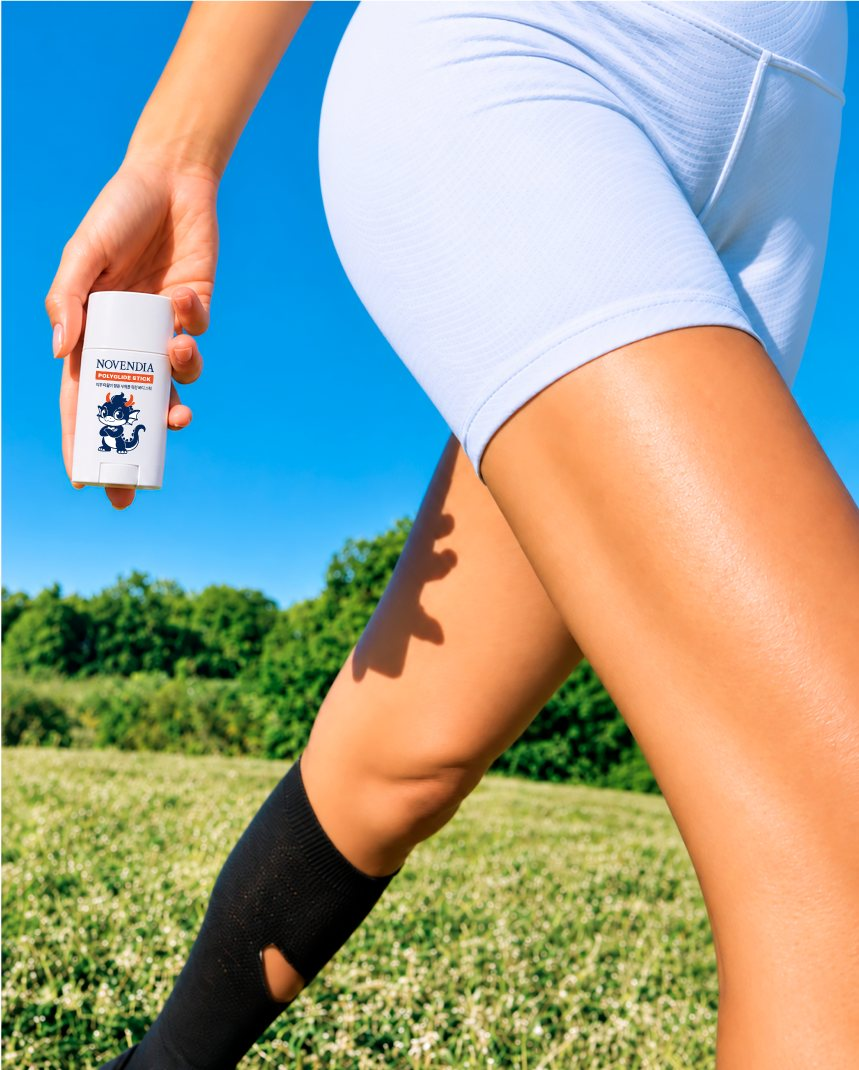
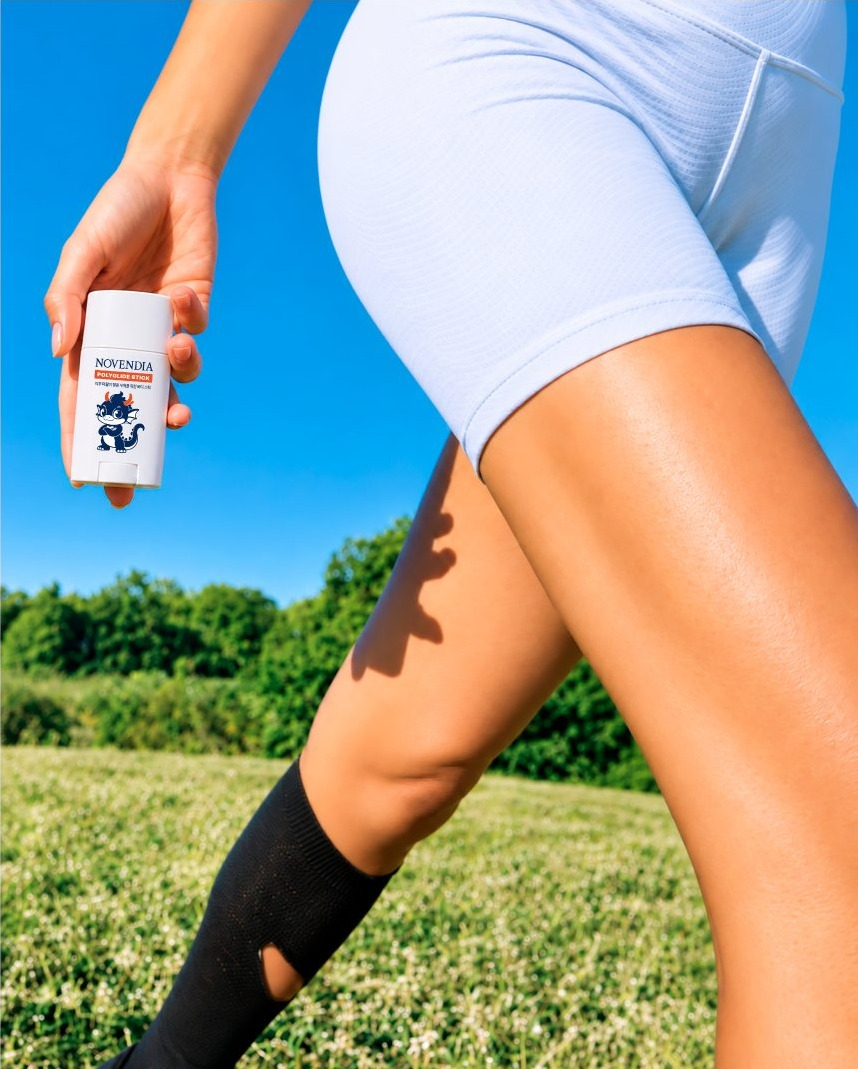
사진 가장자리 흰 선·여백 제거 (어두운 배경에서 드러나던 부분)
Claude-Session: https://claude.ai/code/session_01Mrz4E2EDZAJrEb4e2LYKMF

diff --git a/brand.html b/brand.html
@@ -211,7 +211,7 @@ main img:not([src*="logo"]){filter:saturate(.72) brightness(.96)}
 <h2 id="mumu-title" style="font-size:clamp(30px,3.4vw,46px);line-height:1.3;font-weight:700">푸른 해룡의 수호에서<br>시작된 피부 보호막</h2>
 <p style="font-size:18px;line-height:1.85;color:rgba(238,233,223,.78)">신라 문무왕은 죽어서 동해의 용이 되어 나라를 지키겠다고 했습니다. 그 해룡 설화에서 태어난 남색 아기 용이 노벤디아의 수호 캐릭터 무무입니다.</p>
 <p style="font-size:18px;line-height:1.85;color:rgba(238,233,223,.78)">작지만 든든하게, 무무는 제품 위에서 러너의 움직임 곁을 지킵니다.</p>
-<img loading="lazy" src="images/product_cut.jpg" alt="무무가 그려진 노벤디아 폴리글라이드 스틱" style="width:120px;border-radius:4px">
+<img loading="lazy" src="images/product_cut.jpg" alt="무무가 그려진 노벤디아 폴리글라이드 스틱" style="width:120px;background:#fff;padding:10px 0;box-sizing:content-box">
 </div>
 </div>
 </section>

diff --git a/product.html b/product.html
@@ -456,7 +456,7 @@ main img:not([src*="logo"]){filter:saturate(.72) brightness(.96)}
 </ol>
 
 <div class="card" style="color:#EEE9DF;padding:clamp(24px,4vw,48px);display:flex;flex-wrap:wrap;gap:32px 56px;align-items:center">
-<img loading="lazy" src="images/product_cut.jpg" alt="노벤디아 폴리글라이드 스틱 40g 제품 사진" style="width:180px;flex:0 0 auto">
+<img loading="lazy" src="images/product_cut.jpg" alt="노벤디아 폴리글라이드 스틱 40g 제품 사진" style="width:180px;flex:0 0 auto;filter:none">
 <div style="flex:1 1 360px;display:flex;flex-direction:column;gap:14px">
 <span style="font-size:15px;color:rgba(238,233,223,.58)">러너용 바디 마찰 케어 스틱 · 일반 화장품</span>
 <h3 style="font-size:clamp(24px,2.6vw,32px);font-weight:700;line-height:1.35">노벤디아 폴리글라이드 스틱 <span class="num" style="color:rgba(238,233,223,.58);font-weight:600">40g</span></h3>
